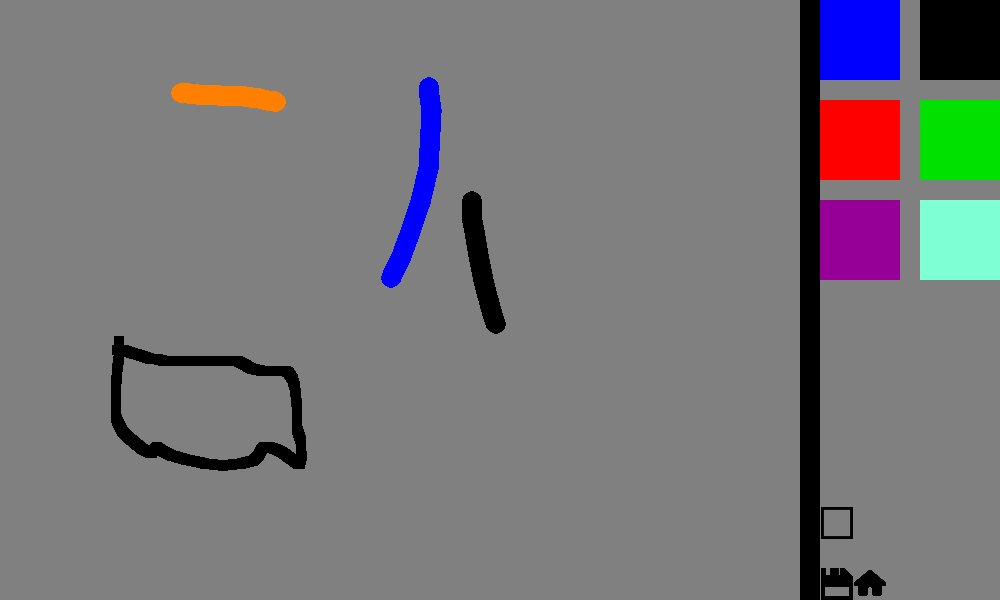
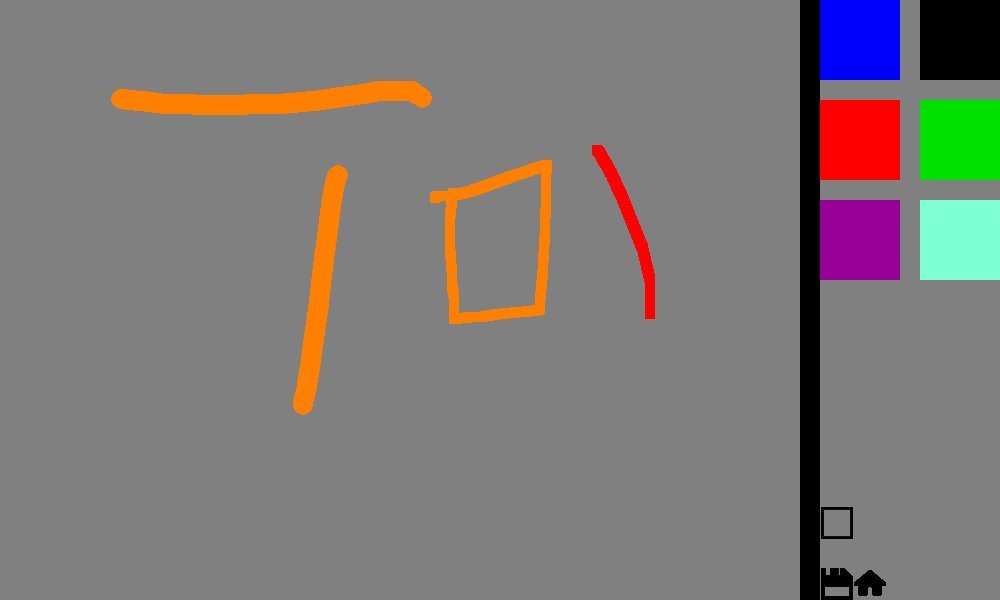
28_04_2020
paint kontynuacja

Changed region(s): [[0.093, 0.12, 0.558, 0.57], [0.093, 0.27, 0.372, 0.81], [0.589, 0.24, 0.682, 0.54]]

diff --git a/28_04/main.py b/28_04/main.py
@@ -184,32 +184,18 @@ def wpisz():
 def paint():
     draw_on = False
     last_pos = (0, 0)
-    color = (255, 128, 0)
+    color = kolory.black
     radius = 10
-    rozmiar=10
     screen = pygame.display.set_mode((1000, 600))
     save = pygame.image.load('save.png')
     dom = pygame.image.load('home.png')
     kwadracik = pygame.image.load('rectangle.png')
+    minus= pygame.image.load('minus.png')
+    plus = pygame.image.load('plus.png')
     screen.fill((128, 128, 128))
     tryp_rys=False
     p1=polos.poz(800,0,20,600,screen)
-    def roundline(srf, color, start, end, radius=1):
-        dx = end[0] - start[0]
-        dy = end[1] - start[1]
-        distance = max(abs(dx), abs(dy))
-        for i in range(distance):
-            x = int(start[0] + float(i) / distance * dx)
-            y = int(start[1] + float(i) / distance * dy)
-            pygame.draw.circle(srf, color, (x, y), radius)
-    def kwadratl(srf, color, start, end,rozmiar):
-        dx = end[0] - start[0]
-        dy = end[1] - start[1]
-        distance = max(abs(dx), abs(dy))
-        for i in range(distance):
-            x = int(start[0] + float(i) / distance * dx)
-            y = int(start[1] + float(i) / distance * dy)
-            pygame.draw.rect(srf, color, (x,y,rozmiar,rozmiar))
+
     try:
         while True:
             e = pygame.event.wait()
@@ -238,25 +224,32 @@ def paint():
                 if e.pos[0]>=821 and e.pos[0]<853 and e.pos[1]>507 and e.pos[1]<539:
                     tryp_rys=True
 
-                if e.pos[0] < 800:
+                if e.pos[0] < 800-radius:
 
                     if tryp_rys:
-                        pygame.draw.rect(screen,color,(e.pos[0],e.pos[1],10,10))
+                        pygame.draw.rect(screen,color,(e.pos[0],e.pos[1],radius,radius))
                     else:
                         pygame.draw.circle(screen, color, e.pos, radius)
                     draw_on = True
                 #zapis---------------------------------------------------------------
                 if e.pos[0] >= 821 and e.pos[0] < 900 and e.pos[1] > 568 and e.pos[1] < 600:
                     pygame.image.save(screen, "screenshot.jpeg")
+                #zmiana rozmiaru rysowania-------------------------
+                if e.pos[0] >= 821 and e.pos[0] < 853 and e.pos[1] > 447 and e.pos[1] < 507:
+                        radius=radius+10
+                        pygame.draw.rect(screen,kolory.gray, (905,447,100,24))
+                        napisz_zwykły(str(radius), 905, 447, 20, kolory.DarkBlue, kolory.cz2)
+
+
             if e.type == pygame.MOUSEBUTTONUP:
                 draw_on = False
             if e.type == pygame.MOUSEMOTION:
-                if e.pos[0] < 800:
+                if e.pos[0] < 800-radius:
                     if draw_on:
                         if tryp_rys:
-                            kwadratl(screen,color,e.pos,last_pos,10)
+                            Funkcje.kwadratl(screen,color,e.pos,last_pos,radius)
                         else:
-                            roundline(screen, color, e.pos, last_pos, radius)
+                            Funkcje.roundline(screen, color, e.pos, last_pos, radius)
                     last_pos = e.pos
             p1.rysuj()
             polos.ry(920,0,screen,kolory.czarny)
@@ -268,6 +261,11 @@ def paint():
             screen.blit(save, (821, 568))
             screen.blit(dom, (854, 567))
             screen.blit(kwadracik, (821, 507))
+            screen.blit(minus, (821, 447))
+            screen.blit(plus, (861, 447))
+            napisz_zwykły("zmiana rozmiaru", 820, 420, 20, kolory.DarkBlue, kolory.cz2)
+            napisz_zwykły("zmiana pedzla", 820, 480, 20, kolory.DarkBlue, kolory.cz2)
+            napisz_zwykły("menu", 820, 538, 20, kolory.DarkBlue, kolory.cz2)
 
             pygame.display.flip()
 
@@ -308,6 +306,7 @@ def menu():
 
         napisz_zwykły("Stwórz koło ", 110, 200, 30, kolory.DarkBlue, kolory.cz2)
         napisz_zwykły("Menu ", 140, 70, 40, kolory.DarkBlue, kolory.cz2)
+
         napisz_zwykły("Paint", 160, 250, 30, kolory.DarkBlue, kolory.cz2)
 
 

diff --git a/28_04/Funkcje.py b/28_04/Funkcje.py
@@ -2,7 +2,7 @@ import random
 import datetime
 import kolory
 import pygame
-
+#funckje do koła----------------------------------------------
 def zamiana(tab):
 
     b = ""
@@ -24,4 +24,20 @@ def losuj(lista):
             print("Wylosowano")
             print(lista[i])
             return lista[i]
-
+#funckje do paint--------------------------------
+def roundline(srf, color, start, end, radius=1):
+        dx = end[0] - start[0]
+        dy = end[1] - start[1]
+        distance = max(abs(dx), abs(dy))
+        for i in range(distance):
+            x = int(start[0] + float(i) / distance * dx)
+            y = int(start[1] + float(i) / distance * dy)
+            pygame.draw.circle(srf, color, (x, y), radius)
+def kwadratl(srf, color, start, end,rozmiar):
+        dx = end[0] - start[0]
+        dy = end[1] - start[1]
+        distance = max(abs(dx), abs(dy))
+        for i in range(distance):
+            x = int(start[0] + float(i) / distance * dx)
+            y = int(start[1] + float(i) / distance * dy)
+            pygame.draw.rect(srf, color, (x,y,rozmiar,rozmiar))

diff --git a/28_04/kolory.py b/28_04/kolory.py
@@ -8,7 +8,7 @@ cz1 = "Kristen ITC"
 cz2 = "Kristen ITC"
 clear =  (  0,  0,  0,  0)
 white =  (255,255,255)
-gray =   (150,150,150)
+gray =  (128, 128, 128)
 black =  (  0,  0,  0)
 red =    (255,  0,  0)
 orange = (255,125,  0)
